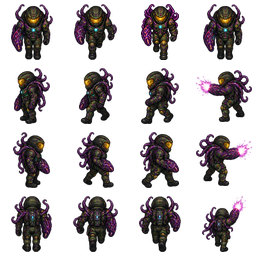
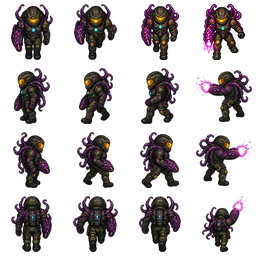
Replace idle south attack frame with generated firing pose

Changed region(s): [[0.7812, 0.0, 0.9688, 0.25]]

diff --git a/tools/assemble_art.py b/tools/assemble_art.py
@@ -105,10 +105,14 @@ def main():
             box=attack.getchannel("A").point(lambda a:255 if a>36 else 0).getbbox()
             cells[row][3]=attack.crop(box)
         # The generated left attack looked right. Reuse the correct right-facing
-        # pose mirrored; retain the front-facing sprite for down attacks because
-        # Godot renders the biopulse flash and projectile in the actual aim direction.
+        # pose mirrored. South has its own firing source with the weapon on the
+        # anatomical right (screen-left), rather than a duplicate idle sprite.
         cells[1][3]=ImageOps.mirror(cells[2][3])
-        cells[0][3]=cells[0][0].copy()
+        attack_down = clean_detached(Image.open(SRC / "hero-down-attack-generated.png").convert("RGBA"))
+        attack_box = attack_down.getchannel("A").point(lambda a:255 if a>36 else 0).getbbox()
+        if not attack_box:
+            raise ValueError("South-attack source has no visible character")
+        cells[0][3] = attack_down.crop(attack_box)
         # The original generated south walk2 swaps the human and symbiote arms.
         # Use a dedicated corrected source pose; never reflect the full host to
         # animate a step, since its anatomical right arm is deliberately unique.

diff --git a/tools/check_host_animation.py b/tools/check_host_animation.py
@@ -43,6 +43,14 @@ def main() -> None:
             frames_checked += 1
         assert different(south[1], south[2]), (name, "identical south gait frames")
         assert different(ImageOps.mirror(south[1]), south[2]), (name, "mirrored south gait frame")
+        assert different(south[0], south[3]), (name, "south attack duplicates idle")
+        # A firing pose needs a bright magenta muzzle burst below the right
+        # forearm, not just differently placed feet or a runtime projectile.
+        def muzzle_pixels(cell: Image.Image) -> int:
+            return sum(1 for y in range(32, 58) for x in range(4, 32)
+                       if (lambda p: p[3] > 100 and p[0] > 180 and p[2] > 150
+                           and p[1] < p[0] * 0.85)(cell.getpixel((x, y))))
+        assert muzzle_pixels(south[3]) >= muzzle_pixels(south[0]) + 8, (name, "south attack has no muzzle flash")
         print(name, "south arm left/right:", [arm_pixels(frame) for frame in south])
     print(f"HOST_ANIMATION_OK: {frames_checked} anatomical-arm frames; two distinct unmirrored south gait poses")
 

diff --git a/docs/VERIFICATION.md b/docs/VERIFICATION.md
@@ -1,3 +1,9 @@
+# Исправление attack_0 — 21 октября 2026
+
+В сборщике атласа удалена подмена атаки вниз кадром idle. Сгенерирован отдельный прозрачный исходник `assets/source/hero-down-attack-generated.png`: оружие на анатомической правой руке (слева на экране), поза выстрела и розово-белая вспышка. Пересобраны `hero.png` и `hero_base.png`; попиксельное сравнение с предыдущим коммитом подтвердило изменение только клетки (3, 0) в обоих атласах. Остальные 15 клеток сохранены.
+
+`bash tools/check_cloud.sh`: 16 скриптов, 308 проверок, 0 ошибок; проверка атласов и анатомии успешна. `tools/check_host_animation.py` теперь также проверяет отличие атаки вниз от idle и наличие вспышки под оружием. В Godot 4.7.1 с настоящим графическим viewport проверены выбор `attack_0` при выстреле вниз и совпадение клеток ресурсов редактора и игры. [Снимок запущенной игры](../artifacts/screenshots/17_host_south_attack.png) воспроизводится командой `godot --path . --audio-driver Dummy --script res://tools/capture_south_attack.gd` при наличии графического контекста. Используется отдельный тестовый профиль.
+
 # Корабль, анимация, музыка и опасность — 21 октября 2026
 
 Проверено непосредственно в облачной Linux x86_64 среде: Godot 4.7.1 stable, GL Compatibility; Python 3.12. Для настоящего графического viewport использован Xvfb и Mesa llvmpipe. Установка и проверка выполнены в существующем checkout.
